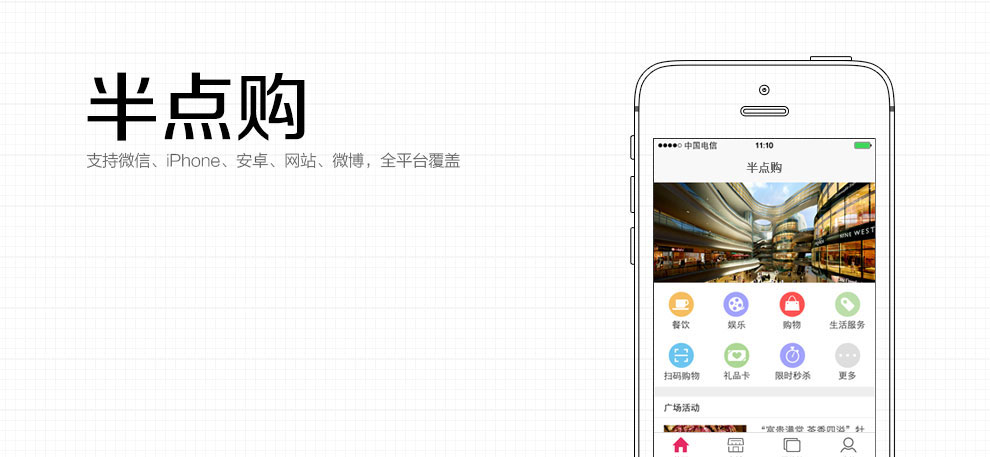
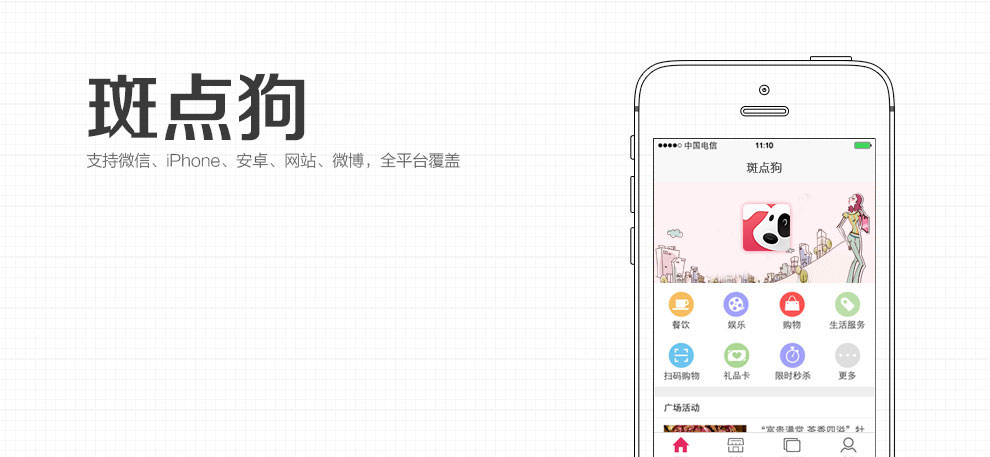
更改字体内容
更改字体内容，更改图片

Changed region(s): [[0.6364, 0.337, 0.9091, 0.6433], [0.0909, 0.1532, 0.3333, 0.3063]]

diff --git a/bdg/android.html b/bdg/android.html
@@ -10,7 +10,7 @@
 	<meta content="telephone=no" name="format-detection" />
 <link rel="stylesheet" type="text/css" href="http://app.bl99w.com/css/app_css.css">
 <link rel="stylesheet" href="http://cdn.staticfile.org/font-awesome/4.0.3/css/font-awesome.min.css"> 
-<title>半点购 - Android下载</title>
+<title>斑点狗 - Android下载</title>
 <script type="text/javascript">
 	function is_weixn(){
 		    var ua = navigator.userAgent.toLowerCase();
@@ -39,7 +39,7 @@ function download(appUrl){
         <div class="menubox">
                 <div></div>
                 <div>
-                    <p>半点购<br />消费者版</p>
+                    <p>斑点狗<br />消费者版</p>
                     <a href="#"><img src="http://app.bl99w.com/images/menus.png"  class="btn"/></a>
                 </div>
         </div>
@@ -49,7 +49,7 @@ function download(appUrl){
         <div class="menubox">
                 <div></div>
                 <div>
-                    <p>半点购<br />商铺版</p>
+                    <p>斑点狗<br />商铺版</p>
                     <a href="#"><img src="http://app.bl99w.com/images/menus.png"  class="btn"/></a>
                 </div>
         </div>

diff --git a/bdg/iPhone.html b/bdg/iPhone.html
@@ -9,7 +9,7 @@
 	<meta content="black" name="apple-mobile-web-app-status-bar-style" />
 	<meta content="telephone=no" name="format-detection" />
 <link rel="stylesheet" type="text/css" href="http://app.bl99w.com/css/app_css.css">
-<title>半点购 - iPhone下载</title>
+<title>斑点狗 - iPhone下载</title>
 </head>
 
 <body>
@@ -20,7 +20,7 @@
         <div class="menubox">
                 <div></div>
                 <div>
-                    <p>半点购<br />消费者版</p>
+                    <p>斑点狗<br />消费者版</p>
                     <a><img src="http://app.bl99w.com/images/menus.png"  class="btn"/></a>
                 </div>
         </div>
@@ -30,7 +30,7 @@
         <div class="menubox">
                 <div></div>
                 <div>
-                    <p>半点购<br />商铺版</p>
+                    <p>斑点狗<br />商铺版</p>
                     <a><img src="http://app.bl99w.com/images/menus.png"  class="btn"/></a>
                 </div>
         </div>

diff --git a/bdg/index.html b/bdg/index.html
@@ -2,7 +2,7 @@
 <html xmlns="http://www.w3.org/1999/xhtml">
 <head>
 <meta http-equiv="Content-Type" content="text/html; charset=utf-8" />
-<title>半点购</title>
+<title>斑点狗</title>
 <link type="text/css" href="http://app.bl99w.com/css/css.css" rel="stylesheet" />
 <style>
 body{ background:url(http://app.bl99w.com/images/bgs.jpg) repeat; text-align:center; margin-top:80px;}
